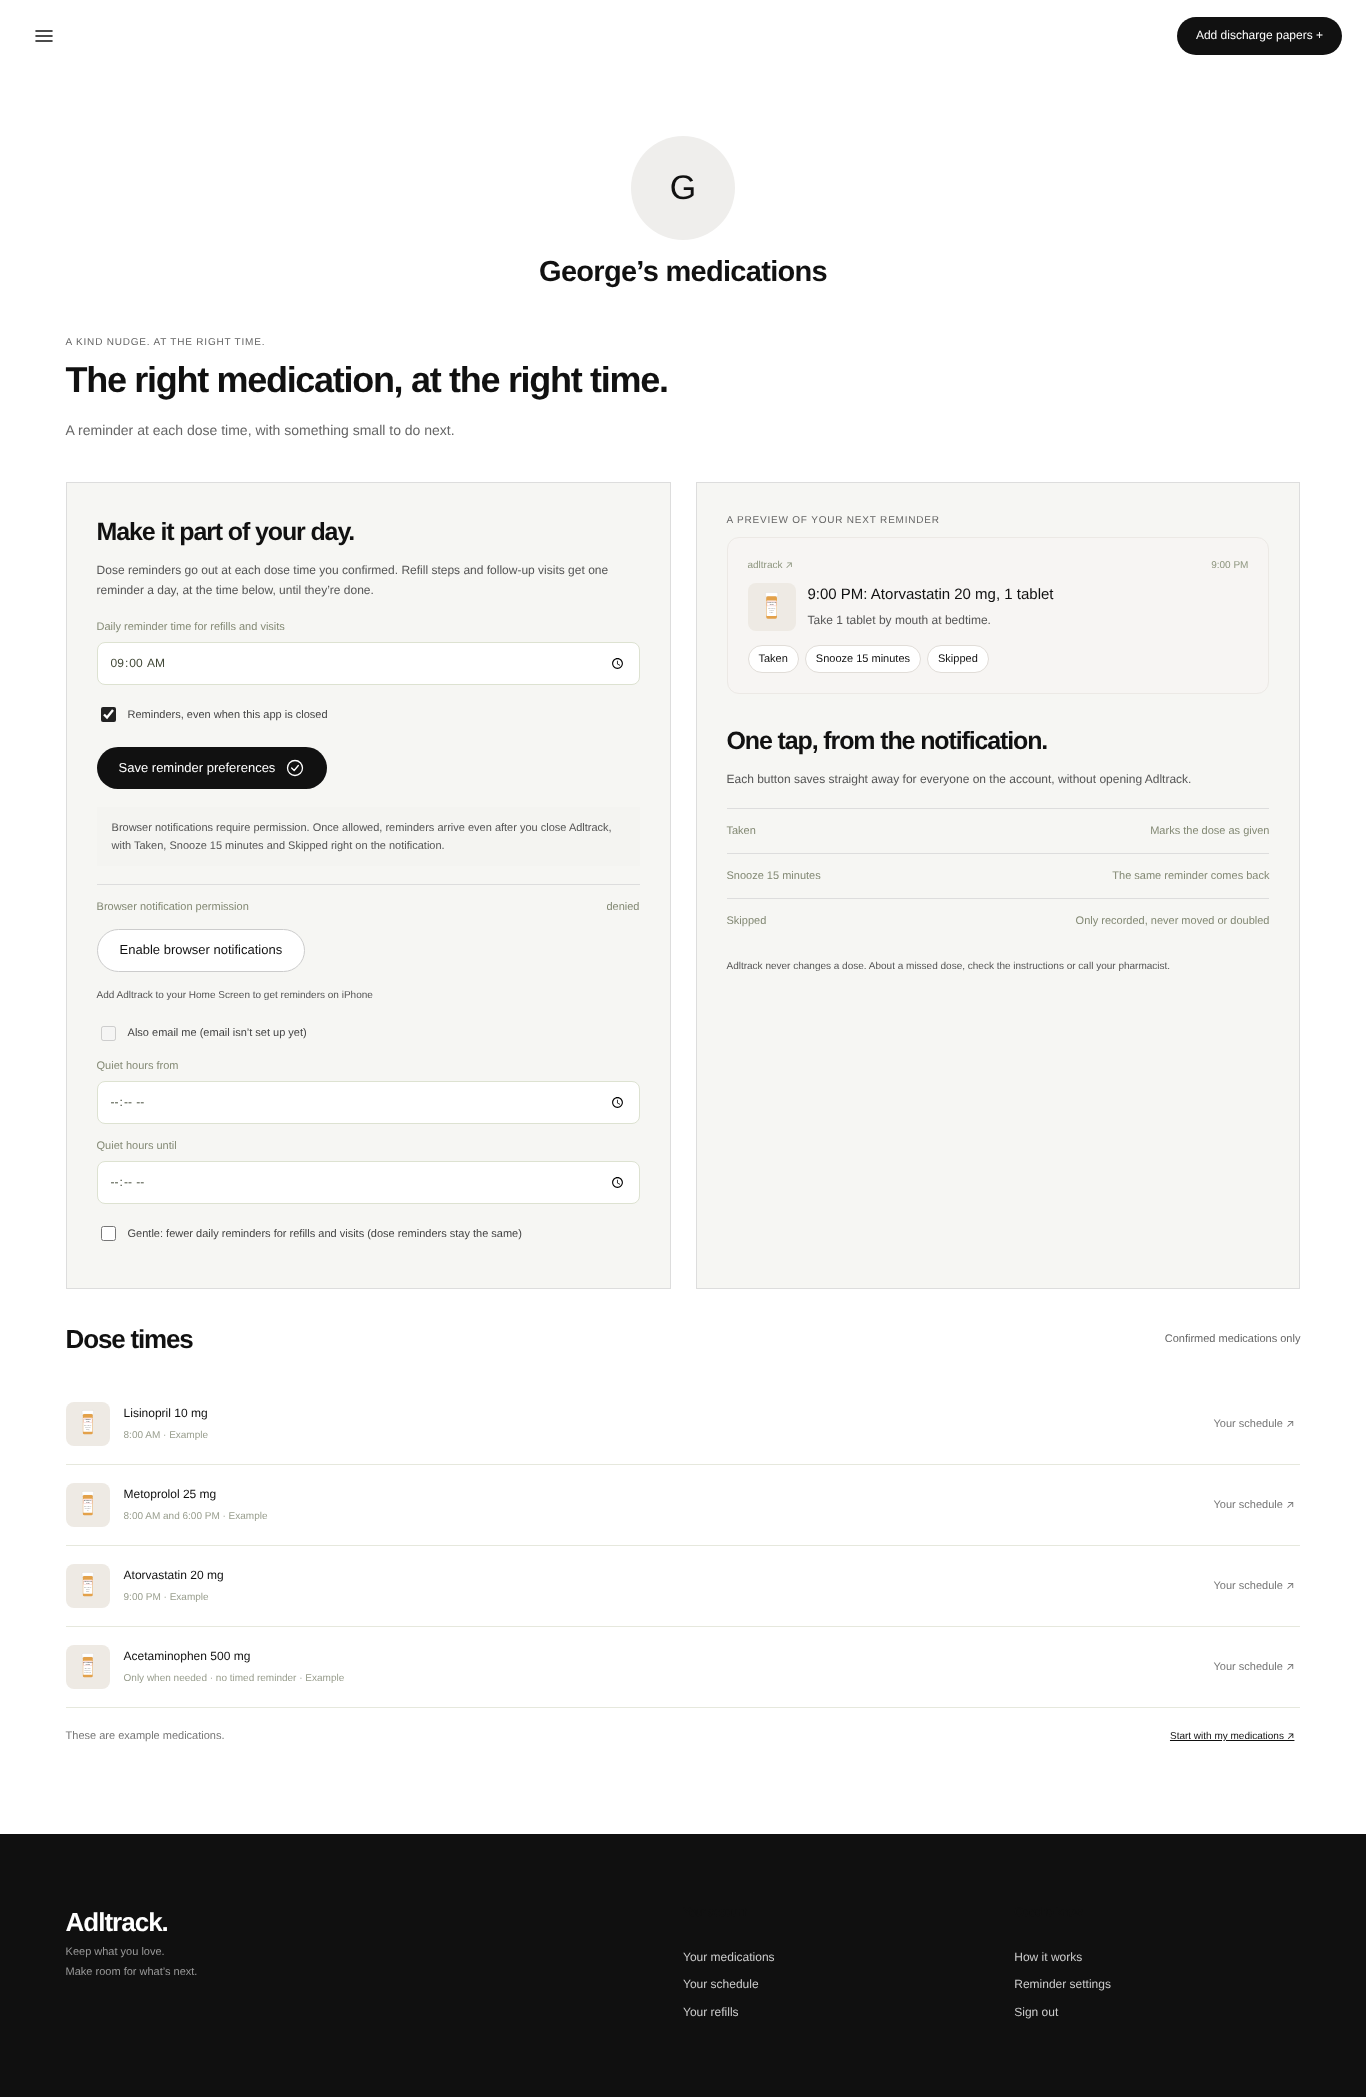
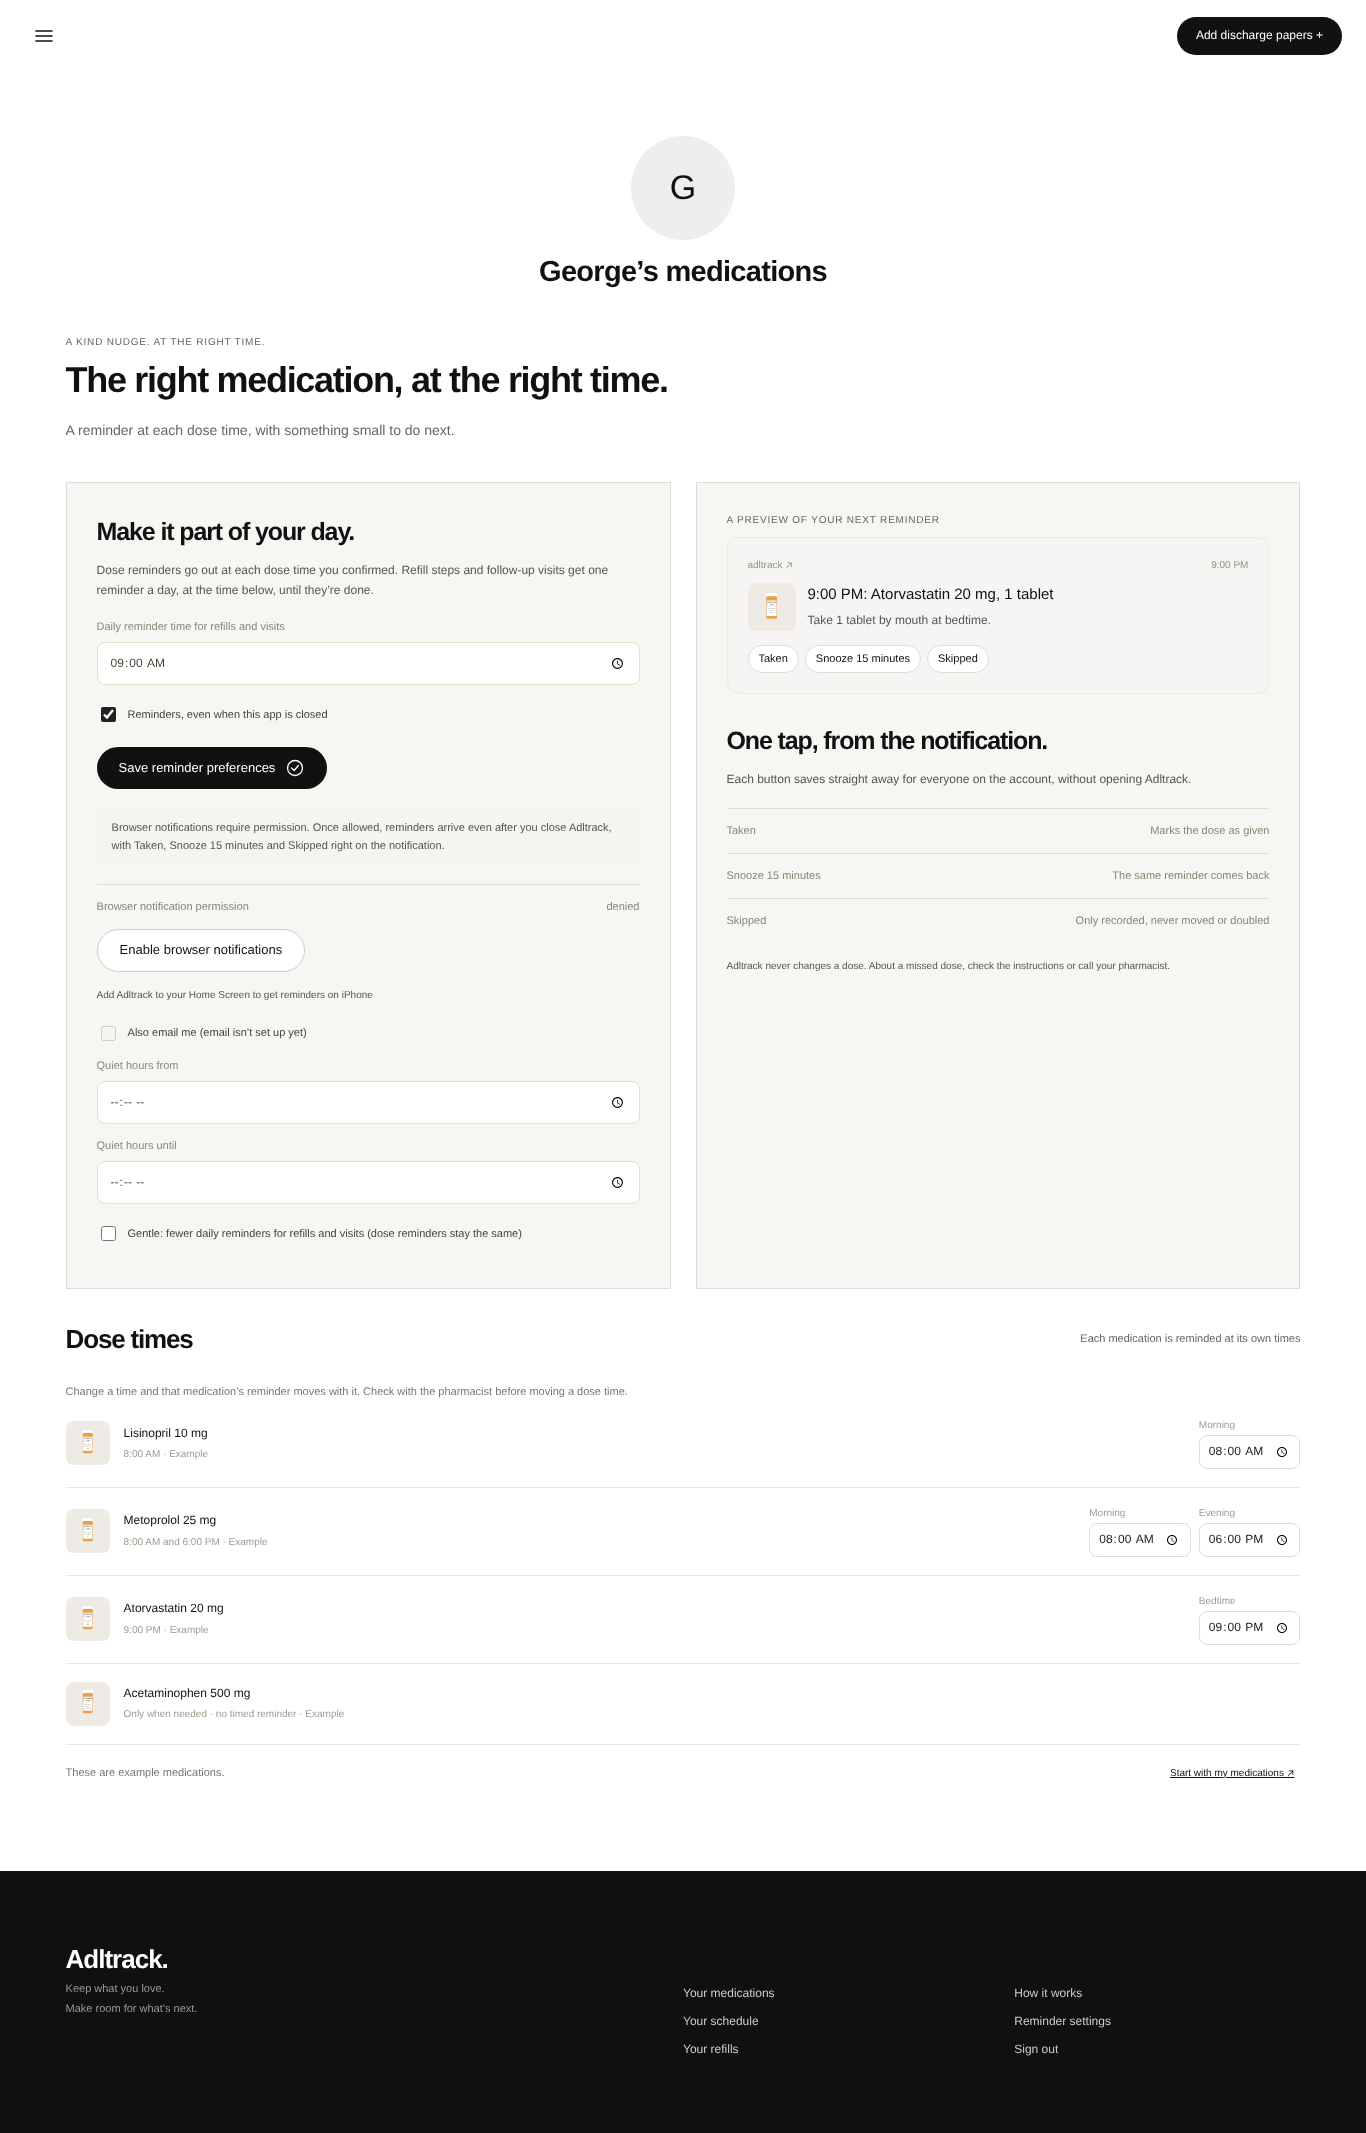
Reminders: each medication's dose times can be changed, and its reminders move with them
- Dose times rows get one time box per dose, as many as the medication has
- Changing one moves only that medication's reminder; a dose already marked today
  at the old time keeps its mark, and two doses can't share a time
- Note to check with the pharmacist before moving a dose time

Claude-Session: https://claude.ai/code/session_01CWcwDZ5RhLVqwRwZHMAGTH

diff --git a/remind.js b/remind.js
@@ -22,10 +22,16 @@ const remindMeds=()=>items.filter(i=>i.med&&i.status==='deciding'&&i.confirmed!=
 function nextReminder(){const day=today(),now=nowClock(),slots=[];for(const i of remindMeds())if(!i.asNeeded)for(const t of new Set(i.times||[]))if(validClock(t))slots.push({item:i,time:t,marked:(i.doses||[]).some(d=>d.slot===t&&(d.day||String(d.at||'').slice(0,10))===day)});
 slots.sort((a,b)=>a.time.localeCompare(b.time));return slots.find(x=>!x.marked&&x.time>=now)||slots.find(x=>!x.marked)||slots[0]||null}
 const timesText=i=>i.asNeeded?'Only when needed · no timed reminder':(i.times||[]).filter(validClock).map(clockText).join(' and ')||'No dose times yet';
+/* One time box per dose of the medication (as many as it has; the directions set how many), so each medication keeps its own reminder times. */
+const doseTimeInputs=i=>i.asNeeded||!(i.times||[]).length?'':`<div class="dose-times">${i.times.map((t,k)=>`<label><span>${esc(slotName(t)||'Dose '+(k+1))}</span><input type="time" value="${esc(t)}" data-dose-time="${esc(i.id)}|${k}" aria-label="${esc(i.name)} reminder time ${k+1}"></label>`).join('')}</div>`;
 remindersPage=function(){const meds=remindMeds(),n=nextReminder(),permission='Notification'in window?Notification.permission:'unsupported';
 const preview=n?`<div class="preview-dose">${medPhoto(n.item)}<div><strong>${esc(clockText(n.time)+': '+doseLine(n.item))}</strong><p>${esc(howText(n.item)||'')}</p></div></div><div class="preview-actions"><span>Taken</span><span>Snooze 15 minutes</span><span>Skipped</span></div>`:'<strong>Your next dose, remembered.</strong><p>Confirm a medication to see its reminder here.</p>';
-return profileHeader()+`<div class="page-heading"><div><span class="eyebrow">A KIND NUDGE. AT THE RIGHT TIME.</span><h1>The right medication, at the right time.</h1><p>A reminder at each dose time, with something small to do next.</p></div></div><div class="two-panel"><section class="settings-card"><h2>Make it part of your day.</h2><p>Dose reminders go out at each dose time you confirmed. Refill steps and follow-up visits get one reminder a day, at the time below, until they’re done.</p><form id="reminder-form"><label>Daily reminder time for refills and visits <input type="time" name="time" required value="${esc(settings.time)}"></label><label class="check-label"><input type="checkbox" name="daily" ${settings.daily?'checked':''}> Reminders, even when this app is closed</label><button type="submit" class="primary">Save reminder preferences ${icon('check')}</button></form><div class="honesty-note">Browser notifications require permission. Once allowed, reminders arrive even after you close Adltrack, with Taken, Snooze 15 minutes and Skipped right on the notification.</div><div class="channel-state"><span>Browser notification permission</span><span>${esc(permission)}</span></div><button id="enable-notifications" class="outline-button">${settings.notifications?'Send a test notification':'Enable browser notifications'}</button><p style="font-size:10px;margin-top:15px">Add Adltrack to your Home Screen to get reminders on iPhone</p>${reminderExtraRows()}</section><section class="settings-card"><span class="eyebrow">A PREVIEW OF YOUR NEXT REMINDER</span><div class="notification-preview"><div class="preview-brand"><span>adltrack ↗</span><span>${esc(n?clockText(n.time):sendClock())}</span></div>${preview}</div><h2 style="margin-top:28px">One tap, from the notification.</h2><p>Each button saves straight away for everyone on the account, without opening Adltrack.</p><div class="channel-state"><span>Taken</span><span>Marks the dose as given</span></div><div class="channel-state"><span>Snooze 15 minutes</span><span>The same reminder comes back</span></div><div class="channel-state"><span>Skipped</span><span>Only recorded, never moved or doubled</span></div><p style="font-size:10px;margin-top:15px">Adltrack never changes a dose. About a missed dose, check the instructions or call your pharmacist.</p></section></div><section class="reminder-feed"><div class="section-heading"><h2>Dose times</h2><span class="date-label">Confirmed medications only</span></div>${meds.map(i=>`<div class="reminder-row">${medPhoto(i)}<div><p>${esc(i.name)}</p><small>${esc(timesText(i))}${i.demo?' · Example':''}</small></div><button data-view="calendar">Your schedule ↗</button></div>`).join('')||'<div class="empty"><h2>First, confirm a medication.</h2><p>Scan the discharge papers and confirm each medication with a photo.</p><button class="primary" data-add>Add discharge papers</button></div>'}</section>${demoStrip()}`};
+return profileHeader()+`<div class="page-heading"><div><span class="eyebrow">A KIND NUDGE. AT THE RIGHT TIME.</span><h1>The right medication, at the right time.</h1><p>A reminder at each dose time, with something small to do next.</p></div></div><div class="two-panel"><section class="settings-card"><h2>Make it part of your day.</h2><p>Dose reminders go out at each dose time you confirmed. Refill steps and follow-up visits get one reminder a day, at the time below, until they’re done.</p><form id="reminder-form"><label>Daily reminder time for refills and visits <input type="time" name="time" required value="${esc(settings.time)}"></label><label class="check-label"><input type="checkbox" name="daily" ${settings.daily?'checked':''}> Reminders, even when this app is closed</label><button type="submit" class="primary">Save reminder preferences ${icon('check')}</button></form><div class="honesty-note">Browser notifications require permission. Once allowed, reminders arrive even after you close Adltrack, with Taken, Snooze 15 minutes and Skipped right on the notification.</div><div class="channel-state"><span>Browser notification permission</span><span>${esc(permission)}</span></div><button id="enable-notifications" class="outline-button">${settings.notifications?'Send a test notification':'Enable browser notifications'}</button><p style="font-size:10px;margin-top:15px">Add Adltrack to your Home Screen to get reminders on iPhone</p>${reminderExtraRows()}</section><section class="settings-card"><span class="eyebrow">A PREVIEW OF YOUR NEXT REMINDER</span><div class="notification-preview"><div class="preview-brand"><span>adltrack ↗</span><span>${esc(n?clockText(n.time):sendClock())}</span></div>${preview}</div><h2 style="margin-top:28px">One tap, from the notification.</h2><p>Each button saves straight away for everyone on the account, without opening Adltrack.</p><div class="channel-state"><span>Taken</span><span>Marks the dose as given</span></div><div class="channel-state"><span>Snooze 15 minutes</span><span>The same reminder comes back</span></div><div class="channel-state"><span>Skipped</span><span>Only recorded, never moved or doubled</span></div><p style="font-size:10px;margin-top:15px">Adltrack never changes a dose. About a missed dose, check the instructions or call your pharmacist.</p></section></div><section class="reminder-feed"><div class="section-heading"><h2>Dose times</h2><span class="date-label">Each medication is reminded at its own times</span></div><p class="dose-times-note">Change a time and that medication’s reminder moves with it. Check with the pharmacist before moving a dose time.</p>${meds.map(i=>`<div class="reminder-row">${medPhoto(i)}<div><p>${esc(i.name)}</p><small>${esc(timesText(i))}${i.demo?' · Example':''}</small></div>${doseTimeInputs(i)}</div>`).join('')||'<div class="empty"><h2>First, confirm a medication.</h2><p>Scan the discharge papers and confirm each medication with a photo.</p><button class="primary" data-add>Add discharge papers</button></div>'}</section>${demoStrip()}`};
 
+/* Moving one medication's dose time: only that medication changes, and a dose already marked today at the old time keeps its mark. */
+document.addEventListener('change',e=>{const t=e.target;if(!t.dataset||!t.dataset.doseTime)return;const [id,k]=t.dataset.doseTime.split('|'),i=find(id),n=Number(k);if(!i||!Array.isArray(i.times)||!(n in i.times))return;const old=i.times[n],next=t.value;
+  if(!validClock(next)){t.value=old;toast('Pick a time for this dose.');return}if(next===old)return;if(i.times.includes(next)){t.value=old;toast(i.name+' already has a dose at '+clockText(next)+'.');return}
+  const day=today();i.times=i.times.map((x,j)=>j===n?next:x);i.doses=(i.doses||[]).map(d=>d.slot===old&&(d.day||String(d.at||'').slice(0,10))===day?{...d,slot:next}:d);save();render();toast(`${i.name}: reminder moved to ${clockText(next)}.`)});
 document.addEventListener('change',async e=>{const f=e.target.closest&&e.target.closest('#reminder-extra-form');if(!f)return;const t=e.target;
   if(t.name==='email'){try{emailPrefs=await Account.api('PUT','/api/email/prefs',{daily:t.checked,unopened:t.checked});toast(t.checked?'We’ll also email the daily reminder when push isn’t set up on any device.':'Reminder emails are off.')}catch(err){t.checked=!t.checked;toast(err.message)}return}
   if(t.name==='gentle'){settings.gentle=t.checked;save();render();toast(t.checked?'Gentle: fewer daily reminders for refills and visits. Dose reminders stay the same.':'Daily reminders until each step is done.');return}

diff --git a/guided.css b/guided.css
@@ -115,3 +115,7 @@ button.flow-tab:focus-visible{outline:2px solid #111;outline-offset:2px}
 .preview-actions span{font-size:11px;padding:5px 10px;border:1px solid #e1ddd8;border-radius:999px;background:#fff}
 .reminder-row .product-photo{width:44px;height:44px;flex:none;border-radius:8px;overflow:hidden}
 .reminder-row button{margin-left:auto}
+.dose-times{display:flex;flex-wrap:wrap;gap:8px;margin-left:auto}
+.dose-times label{display:flex;flex-direction:column;gap:3px;font-size:10px;color:#999e8e}
+.dose-times input{font:inherit;font-size:12px;color:#222;padding:6px 8px;border:1px solid #e1ddd8;border-radius:8px;background:#fff}
+.dose-times-note{font-size:11px;color:#777;margin:4px 0 0}
